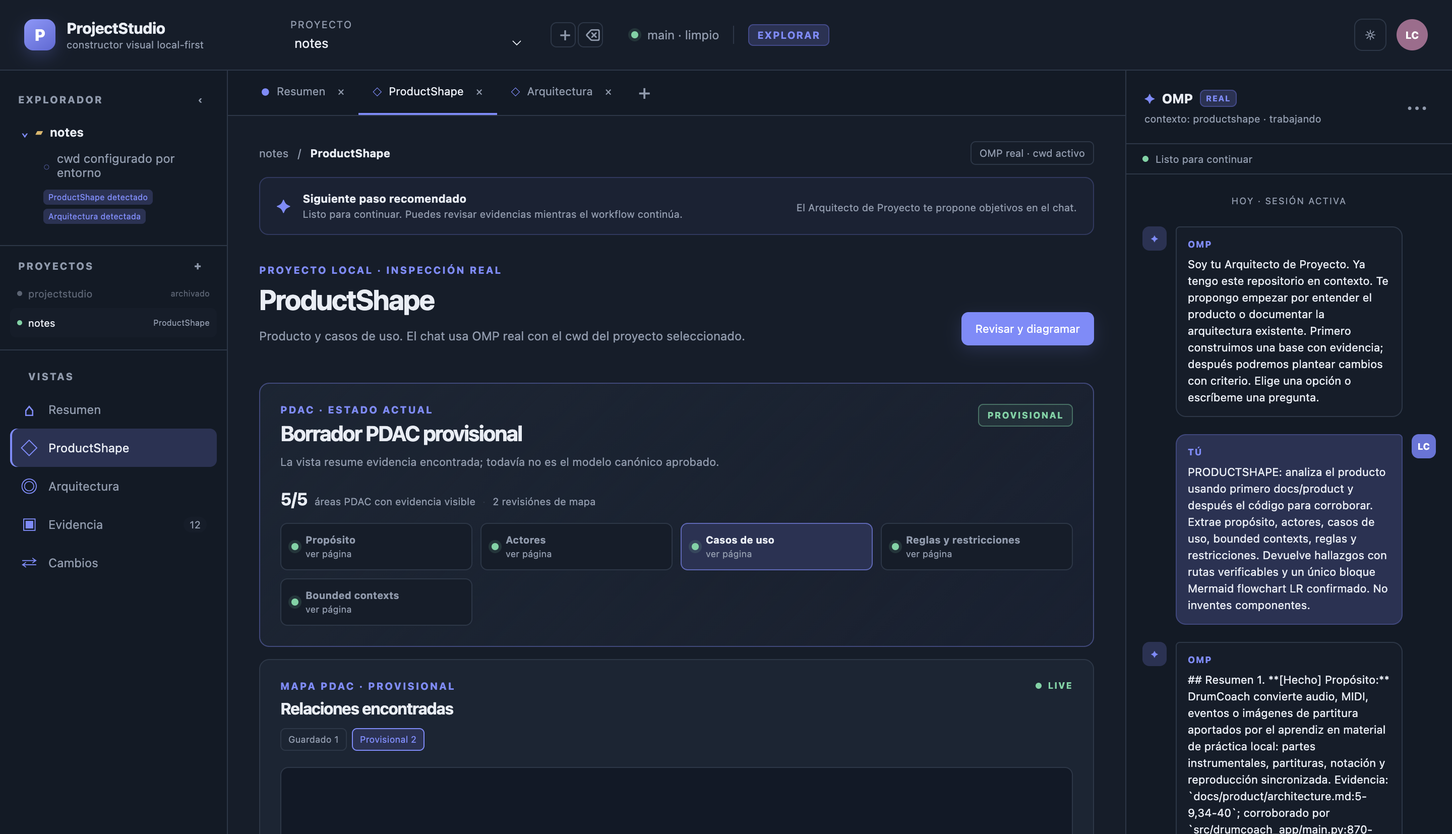
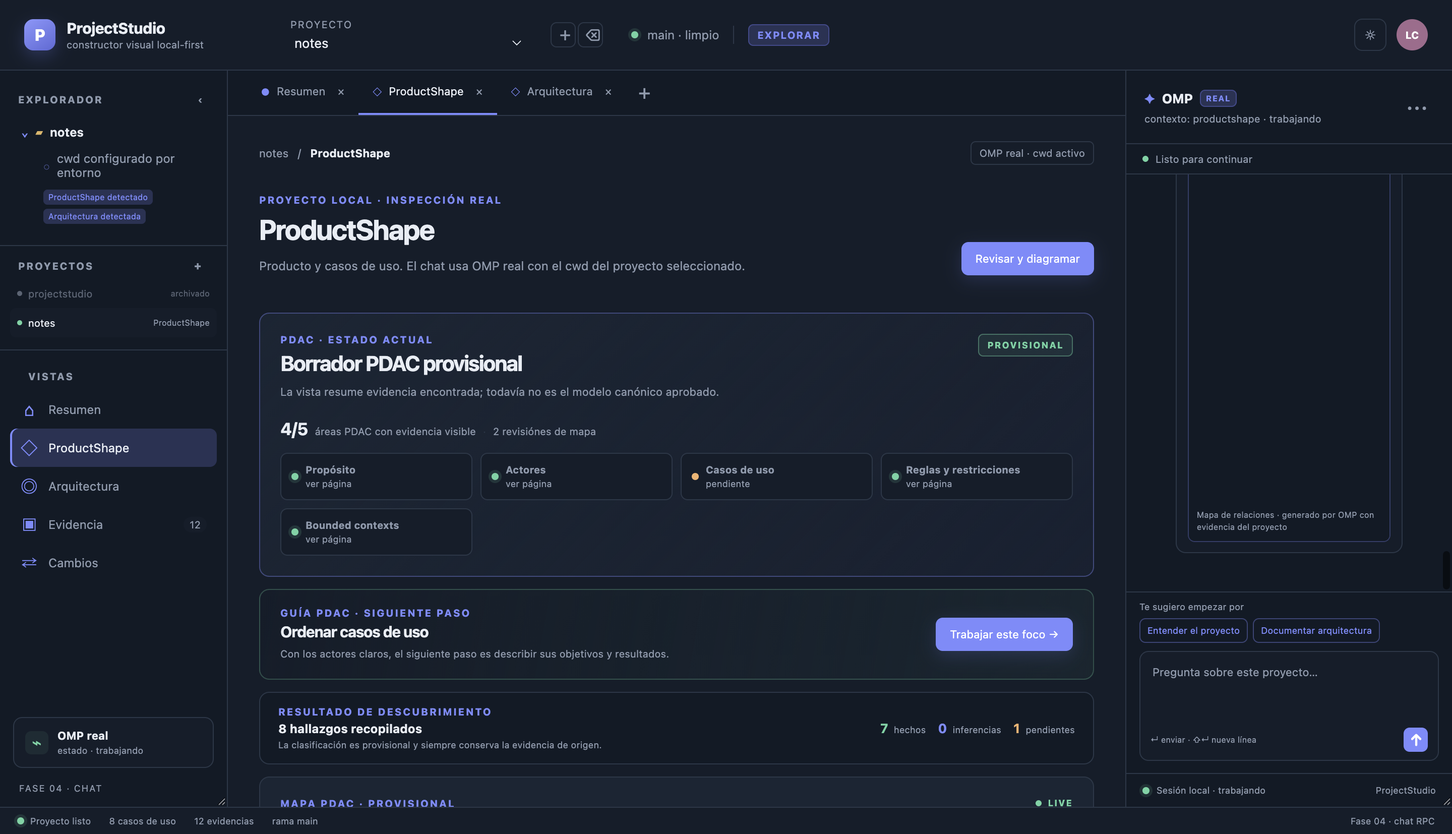
fix: restore ProductShape scrolling

diff --git a/apps/desktop/src/renderer/main.tsx b/apps/desktop/src/renderer/main.tsx
@@ -208,7 +208,6 @@ function App(): JSX.Element {
   const [chatStatus, setChatStatus] = useState("starting");
   const [chatError, setChatError] = useState("");
   const [activity, setActivity] = useState("Preparando el proyecto");
-  const [streamingProgress, setStreamingProgress] = useState<{ title: string; detail: string } | null>(null);
   const [progressSteps, setProgressSteps] = useState<ProgressStep[]>([]);
   const [bootstrapFailed, setBootstrapFailed] = useState(false);
   const streamingDraft = useRef("");
@@ -297,7 +296,6 @@ function App(): JSX.Element {
           streamingDraft.current += delta;
           const progress = extractStreamingProgress(streamingDraft.current);
           if (progress) {
-            setStreamingProgress(progress);
             updateProgress(progress.title, progress.detail);
           } else {
             updateProgress("Recibiendo hallazgos de OMP", "Cada hallazgo confirmado actualiza el centro y el mapa provisional.");
@@ -325,7 +323,6 @@ function App(): JSX.Element {
       } else if (event.type === "message_end") {
         const text = stringField(event.frame, "text") ?? streamingDraft.current;
         streamingDraft.current = "";
-        setStreamingProgress(null);
         if (text) {
           setMessages((current) => [...current, { author: "omp", text }]);
           setAssistantFindings((current) => [...extractAssistantFindings(text), ...current.filter((finding) => !finding.live)].slice(0, 8));
@@ -441,7 +438,6 @@ function App(): JSX.Element {
     setChatInput("");
     setChatError("");
     streamingDraft.current = "";
-    setStreamingProgress(null);
     streamingRevisionId.current = null;
     beginProgress();
     setSending(true);
@@ -628,7 +624,6 @@ function App(): JSX.Element {
                 </article>
                 <article className="panel-card pdac-details-card">
                   <div className="card-heading"><div><div className="card-kicker">DETALLE DINÁMICO</div><h2>{pdacPage === "overview" ? "Lo que va encontrando" : pdacPageLabels[pdacPage]}</h2></div><button className="pdac-clear-focus" onClick={() => openPdacPage("overview")}>Ver estado</button></div>
-                  {sending && <div className="pdac-live-progress" aria-live="polite"><span className="activity-dot purple" /><div><strong>{streamingProgress?.title ?? "OMP está leyendo el proyecto"}</strong><small>{streamingProgress?.detail ?? "El siguiente hallazgo actualizará el mapa provisional del centro."}</small></div><span className="pdac-progress-pulse" /></div>}
                   <div className="pdac-detail-list" aria-live="polite">
                     {visibleFindings.length > 0 ? visibleFindings.slice(0, 8).map((finding, index) => <div className={`pdac-detail-row ${finding.live ? "live" : ""}`} key={finding.id}><span className="pdac-detail-index">{String(index + 1).padStart(2, "0")}</span><div><div className="pdac-detail-title"><span className={`pdac-kind-badge ${finding.kind ?? "fact"}`}>{finding.kind === "inference" ? "INFERENCIA" : finding.kind === "unknown" ? "PENDIENTE" : "HECHO"}</span><strong>{finding.title}</strong>{finding.live && <span className="pdac-new-badge">NUEVO</span>}</div><small>{finding.detail}{finding.evidence ? ` · ${finding.evidence}` : ""}</small></div></div>) : <div className="assistant-empty"><strong>{sending ? "Esperando el siguiente hallazgo…" : "Esta área todavía no tiene evidencia."}</strong><small>{sending ? "OMP la añadirá cuando encuentre una señal verificable." : "El asistente la completará cuando encuentre información verificable en el proyecto."}</small></div>}
                   </div>

diff --git a/apps/desktop/src/renderer/styles.css b/apps/desktop/src/renderer/styles.css
@@ -10,7 +10,7 @@
 body { margin: 0; min-width: 1120px; min-height: 100vh; overflow: hidden; }
 button, select, textarea { font: inherit; }
 button { cursor: pointer; }
-.app-shell { --surface: #141d2a; --surface-strong: #1a2534; --surface-soft: #111a26; --line: #2a3748; --muted: #8e9aae; --text: #e8edf5; --accent: #7c8cff; --accent-soft: #293255; --green: #65d5a2; --orange: #f4b26b; display: flex; flex-direction: column; min-height: 100vh; background: #101722; color: var(--text); }
+.app-shell { --surface: #141d2a; --surface-strong: #1a2534; --surface-soft: #111a26; --line: #2a3748; --muted: #8e9aae; --text: #e8edf5; --accent: #7c8cff; --accent-soft: #293255; --green: #65d5a2; --orange: #f4b26b; display: flex; flex-direction: column; height: 100vh; min-height: 0; overflow: hidden; background: #101722; color: var(--text); }
 .app-shell.light { --surface: #ffffff; --surface-strong: #f5f7fb; --surface-soft: #eef2f8; --line: #d8deea; --muted: #68758a; --text: #172236; --accent: #5c68d8; --accent-soft: #e8eafe; --green: #198d62; --orange: #bd6a16; background: #edf1f7; }
 .topbar { height: 70px; flex: 0 0 70px; display: flex; align-items: center; gap: 28px; padding: 0 24px; background: var(--surface); border-bottom: 1px solid var(--line); }
 .brand-block { display: flex; align-items: center; gap: 11px; min-width: 236px; }
@@ -65,7 +65,7 @@ button { cursor: pointer; }
 .connection-card strong { font-size: 11px; }
 .connection-card small { margin-top: 3px; color: var(--muted); font-size: 9px; }
 .phase-label { padding: 15px 6px 0; color: var(--muted); font-size: 9px; letter-spacing: .1em; }
-.main-panel { display: flex; flex-direction: column; flex: 1; min-width: 520px; background: var(--surface); }
+.main-panel { display: flex; flex-direction: column; flex: 1; min-width: 520px; min-height: 0; background: var(--surface); }
 .tab-strip { display: flex; align-items: end; height: 45px; padding: 0 19px; border-bottom: 1px solid var(--line); background: var(--surface-soft); }
 .view-tab, .add-tab { height: 45px; border: 0; border-bottom: 2px solid transparent; color: var(--muted); background: transparent; font-size: 11px; }
 .view-tab { padding: 0 14px; }
@@ -73,7 +73,7 @@ button { cursor: pointer; }
 .tab-status { margin-right: 7px; color: var(--accent); font-size: 9px; }
 .tab-close { margin-left: 12px; color: var(--muted); }
 .add-tab { padding: 0 12px; font-size: 20px; }
-.content-scroll { overflow: auto; padding: 25px 31px 40px; }
+.content-scroll { flex: 1; min-height: 0; min-width: 0; overflow: auto; padding: 25px 31px 40px; }
 .breadcrumb { display: flex; align-items: center; gap: 9px; color: var(--muted); font-size: 11px; }
 .breadcrumb strong { color: var(--text); }
 .breadcrumb-spacer { flex: 1; }

diff --git a/tests/e2e/notes-diagram.ts b/tests/e2e/notes-diagram.ts
@@ -27,6 +27,9 @@ try {
   if (await window.locator(".pdac-kind-badge").count() === 0) throw new Error("Stored ProductShape findings have no evidence classification");
   if (await window.locator(".welcome-strip").count() !== 0) throw new Error("ProductShape still shows the duplicated upper status");
   if (await window.locator(".pdac-guide-card").count() !== 1) throw new Error("ProductShape guide card is missing");
+  const contentScroll = window.locator(".content-scroll");
+  const scrollMetrics = await contentScroll.evaluate((element) => ({ scrollHeight: element.scrollHeight, clientHeight: element.clientHeight }));
+  if (scrollMetrics.scrollHeight <= scrollMetrics.clientHeight) throw new Error(`ProductShape center is not scrollable: ${JSON.stringify(scrollMetrics)}`);
   await window.getByRole("button", { name: /Casos de uso/ }).click();
   await window.getByRole("heading", { level: 1, name: "Casos de uso" }).waitFor();
   await window.getByText("ENTIDAD PDAC", { exact: true }).waitFor();

diff --git a/tests/e2e/notes-brownfield.ts b/tests/e2e/notes-brownfield.ts
@@ -26,8 +26,8 @@ try {
   await window.getByRole("heading", { name: "ProductShape" }).waitFor();
   const productShapeCount = await window.locator(".message-row.omp").count();
   await window.getByRole("button", { name: "Revisar y diagramar" }).click();
-  await window.locator(".pdac-live-progress").waitFor({ timeout: 30_000 });
   await window.locator(".pdac-progress-panel").waitFor({ timeout: 30_000 });
+  if (await window.locator(".pdac-progress-panel").count() !== 1 || await window.locator(".pdac-live-progress").count() !== 0) throw new Error("ProductShape exposes duplicate central activity status");
   if ((await window.locator(".pdac-progress-step").count()) === 0) throw new Error("ProductShape activity timeline did not publish a step");
   await window.waitForFunction((count) => document.querySelectorAll(".message-row.omp").length > count, productShapeCount, { timeout: 180_000 });
   const productShapeMessage = window.locator(".message-row.omp").last();

diff --git a/docs/implementation/evidence/F05-T02-notes-architecture-real.md b/docs/implementation/evidence/F05-T02-notes-architecture-real.md
@@ -1,54 +1,38 @@
 ✦
 OMP
-## Resumen 1. **[Hecho] Frontera HTTP:** `src/drumcoach_app/main.py` crea FastAPI, configura SQLite y raíces de artefactos/fuentes, sirve viewer, importaciones, biblioteca, scores, playback, assistant, voz y exploración MIDI. Entradas: HTTP y archivos; salidas: JSON, archivos y HTML. Evidencia: `src/drumcoach_app/main.py:20-62,289-323,626-667,870-918,1231-1458`. 2. **[Hecho] Persistencia dividida:** `DrumCoachRepository` mantiene Songs, Instrument Parts, revisiones, bundles, jobs y exploraciones MIDI en SQLite; los artefactos de score y diagnóstico se guardan como archivos con rutas relativas. Evidencia: `src/drumcoach_app/repository.py:178-327,330-337`; contratos: `tests/test_repository.py:10-388`. 3. **[Hecho] Ingesta local secuencial:** los endpoints crean jobs `raw_events`, `local_audio`, `youtube_url` o `score_image`; `local_worker_cli.py`/`queue_drain_cli.py` los drenan y `import_runner.py` delega en MuScriptor, adquisición YouTube o OMR. Evidencia: `src/drumcoach_app/local_worker_cli.py:14-55`, `queue_drain_cli.py:21-123`, `import_runner.py:82-424`. 4. **[Hecho] Pipeline de material:** los eventos se normalizan y convierten en `PracticeScore` —schema 1 para batería, schema 2 para partes afinadas—; después se publican MusicXML, playback, provenance, diagnósticos y `note-trace`. La ruta de imagen convierte MusicXML OMR en eventos de piano. Evidencia: `src/drumcoach_spike/practice_score.py:99-250`, `src/drumcoach_app/import_runner.py:426-594`, `src/drumcoach_spike/transcription_pipeline.py:133-364`, `src/drumcoach_spike/omr.py:24-191`. 5. **[Hecho] Práctica y assistant:** `PlayerController` resuelve una parte activa mediante `DrumCoachRepository`, `TimelineEngine` y el score; `generated_playback.py` deriva notas, límites de compás y timeline para el viewer. El assistant usa herramientas validadas, análisis determinista del teacher y sesiones JSON locales. Evidencia: `src/drumcoach_app/player.py:202-247,316-564`, `src/drumcoach_app/timeline.py:64-190`, `src/drumcoach_app/generated_playback.py:47-243`, `src/drumcoach_app/assistant/orchestrator.py:218-498`, `src/drumcoach_app/assistant/session.py:14-158`. ## Decisiones observadas - **Fuente de verdad:** `practice-score.json`; MusicXML, MIDI, playback, engraving y diagnósticos son proyecciones o sidecars. `src/drumcoach_app/main.py:1335-1357` vuelve a generar MusicXML desde el score cuando procede. - **Cadena de importación confirmada:** job → runner → score canónico → archivos de artefactos → Song/Instrument Part/Revision en SQLite. Los contratos están cubiertos por `tests/test_import_runner.py:19-148` y `tests/test_instruments_phase_one.py:18-106`. - **Rama separada:** `/midi-import` llama directamente a MuScriptor y persiste `midi_explorations` y `DrumScore`; no pasa por una revisión `PracticeScore`. Evidencia: `src/drumcoach_app/main.py:505-552`, `src/drumcoach_app/repository.py:197-203`; pruebas: `tests/test_app.py:139-213`. - **Estado de práctica:** el score y las revisiones viven en SQLite/artefactos; la sesión de player y assistant se guarda en `.local/assistant/sessions/*.json`. Evidencia: `src/drumcoach_app/assistant/session.py:34-59,127-158`. ## Riesgos - **[Hecho] Dependencia de entorno:** la tanda arquitectónica independiente pasó: `40 passed` en `tests/test_repository.py`, `test_import_runner.py` y `test_generated_playback.py`. La tanda ampliada no llegó a recolectar `test_score_image_import.py` ni `test_instruments_phase_one.py` porque `main.py` importa `muscriptor.soundfonts`, que encadena a `torch`, ausente en ese entorno. Evidencia de importación: `src/drumcoach_app/main.py:44-45`. - **[Inferencia]** Si FastAPI debe arrancar sin MuScriptor/torch, la importación superior de `main.py` es una frontera frágil; la opción segura sería cargar esas dependencias sólo en las rutas que las usan. - **[Incógnita]** No queda demostrado en este entorno que el conjunto completo de endpoints HTTP pueda ejecutarse hasta el worker real; sí están cubiertos los contratos de repository, runners, score, playback y teacher mediante pruebas aisladas. ## Próximos pasos 1. Confirmar si el arranque de FastAPI debe funcionar sin `torch`/MuScriptor. Opción segura: mantener el core HTTP y biblioteca arrancables, y diferir la carga del runtime de transcripción. 2. Ejecutar la suite ampliada con el entorno declarado por el proyecto y verificar `/health`, creación de job, drenaje de un job y lectura de una revisión activa. 3. Mantener separadas en la documentación técnica las dos rutas reales: importación canónica a `PracticeScore` y exploración directa MIDI. ```mermaid flowchart LR Browser["Browser / viewer"] -->|HTTP| API["main.py<br/>FastAPI"] Source["Audio local / raw JSONL / YouTube URL / score image"] --> API API --> Repo["repository.py<br/>DrumCoachRepository"] Repo --> SQLite[("SQLite<br/>songs, parts, revisions, jobs, bundles")] API --> Jobs["Import jobs"] Jobs --> Repo Worker["local_worker_cli.py<br/>queue_drain_cli.py"] --> Jobs Worker --> Runner["import_runner.py"] Runner --> Adapter["transcription_adapter.py<br/>MuScriptor"] Runner --> OMR["omr.py<br/>OMR opcional"] Runner --> Acquisition["source_acquisition.py"] Runner --> Score["practice_score.py<br/>PracticeScore canónico"] Runner --> Artifacts[("artifact_root<br/>JSON, JSONL, MusicXML, diagnósticos")] Runner --> Engraver["musescore_engraver.py<br/>engraving opcional"] Score --> MusicXML["musicxml.py"] Score --> Playback["generated_playback.py"] API --> Player["player.py<br/>PlayerController"] Repo --> Player Player --> Timeline["timeline.py<br/>TimelineEngine"] Player --> Score Player --> Playback Playback --> Browser MusicXML --> Browser API --> Assistant["assistant/orchestrator.py"] Assistant --> Provider["Local LFM provider"] Assistant --> Tools["assistant/tools.py"] Tools --> Teacher["teacher/analyse.py<br/>análisis determinista"] Teacher --> Score Teacher --> Player Assistant --> Sessions[(".local/assistant/sessions/*.json")] Assistant --> Browser API --> MIDI["/midi-import"] MIDI --> Adapter MIDI --> MIDIStore[("midi_explorations<br/>+ DrumScore files")] MIDIStore --> Browser ```
-Browser / viewer
-Browser
-Audio local / raw JSONL /YouTube URL / score image
-Source
-local_worker_cli.py<br/>queue_drain_cli.py
-Worker
-main.py<br/>FastAPI
-API
-import_runner.py
-Runner
-repository.py<br/>DrumCoachRepository
-Repo
-Import jobs
-Jobs
-transcription_adapter.py<br/>MuScriptor
-Adapter
-omr.py<br/>OMR opcional
-OMR
-source_acquisition.py
-Acquisition
-practice_score.py<br/>PracticeScorecanónico
-Score
-("artifact_root<br/>JSON,JSONL, MusicXML,diagnósticos")
-Artifacts
-musescore_engraver.py<br/>engravingopcional
-Engraver
-assistant/orchestrator.py
-Assistant
-/midi-import
+## Hallazgos verificables 1. **Aplicación y API local.** `src/drumcoach_app/main.py` construye FastAPI, configura SQLite, `artifact_root` e `imported_source_root`, y expone salud, imports, biblioteca, partes, artefactos, reproductor, assistant y exploración MIDI. Entradas: JSON, uploads, URLs y parámetros HTTP. Salidas: `dict`, `Response` y `FileResponse`. Evidencia: `src/drumcoach_app/main.py:290-323,505-506,626-718,870-1010,1231-1501`; `tests/test_app.py:18-113`. 2. **Persistencia y estado de imports.** `repository.py` mantiene en SQLite `songs`, `instrument_parts`, `practice_score_revisions`, `import_bundles`, `import_jobs` y `midi_explorations`. La base guarda identidad, estados y rutas relativas; los contenidos de score y diagnósticos permanecen en archivos. Los bundles crean un `Song` y jobs hijos por instrumento. Evidencia: `src/drumcoach_app/repository.py:180-255,330-431,627-735,801-1017`; `tests/test_repository.py:10-37`; `tests/test_instruments_phase_one.py:18-45`. 3. **Worker e ingestión.** `local_worker_cli.py` ejecuta ciclos secuenciales para `raw_events`, `youtube_url`, `local_audio` y `score_image`; `queue_drain_cli.py` selecciona el runner correspondiente. `import_runner.py` conecta adquisición, `MuScriptorTranscriptionAdapter`, OMR y publicación. Entradas: eventos JSONL, audio local, URL o imagen. Salida persistida: `Song`, `InstrumentPart`, revisión y estado final del job. Evidencia: `src/drumcoach_app/local_worker_cli.py:14-55`; `src/drumcoach_app/queue_drain_cli.py:9-123`; `src/drumcoach_app/import_runner.py:192-284,319-399,426-594`; `tests/test_import_runner.py:19-115`; `tests/test_score_image_import.py:66-117,174-191`. 4. **Pipeline canónico de notas y artefactos.** `src/drumcoach_spike/practice_score.py` convierte eventos preservados en un score por instrumento: batería en schema 1 y partes tonales en schema 2; los eventos incompatibles quedan en `unsupported_events`. `transcription_pipeline.py` y `_complete_import_job` publican eventos crudos/normalizados, `practice-score.json`, MusicXML, provenance, diagnósticos, note trace y playback derivado. Evidencia: `src/drumcoach_spike/practice_score.py:99-185,187-250`; `src/drumcoach_spike/transcription_pipeline.py:87-125,290-364`; `src/drumcoach_app/import_runner.py:442-529`; `tests/test_instruments_phase_one.py:108-187`. 5. **Práctica, playback y coaching.** `PlayerController` resuelve una revisión activa desde repository y archivos, mantiene `PlayerSession` en el `state_store` inyectado y controla instrumento, rango, tempo, loop y transporte. `generated_playback.py` deriva payloads score-time desde el JSON canónico y sidecars. `teacher/analyse.py` analiza el rango seleccionado; `assistant/tools.py` prepara acciones pendientes y sólo reproduce tras confirmación. Evidencia: `src/drumcoach_app/player.py:316-427,447-498`; `src/drumcoach_app/generated_playback.py:47-78,123-242`; `src/drumcoach_app/teacher/analyse.py:32-95`; `src/drumcoach_app/assistant/tools.py:1255-1508`; `tests/test_player.py:45-126`; `tests/test_teacher_tools.py:154-228`. ## Decisiones - La fuente de verdad arquitectónica es `practice-score.json`; SQLite referencia revisiones y archivos, pero no sustituye el score. - El worker no implementa una cola distribuida: reclama jobs SQLite y ejecuta runners locales secuenciales. - El reproductor no persiste su sesión en las tablas de dominio; usa el `state_store` recibido por `PlayerController`. - La verificación ejecutada cubrió los contratos principales: **227 tests pasaron**, con una advertencia deprecada de `httpx`/`TestClient`. ## Riesgos - Hay varias proyecciones de MusicXML: conversor interno, MuseScore opcional y ruta legacy de batería. `import_runner.py:534-548,680-798` registra fallback, engraving y validación semántica; una documentación futura debe distinguirlos. - FastAPI puede iniciar su worker embebido y también existe `local_worker_cli.py`; el reclamo atómico `queued → running` evita doble ejecución, pero la operación debe elegir un modo principal. - Assistant, teacher, voice, OMR y MuseScore tienen dependencias y límites de disponibilidad que no pertenecen al núcleo SQLite/score. - La exploración MIDI usa tablas y endpoints propios y no equivale al flujo de `ImportJob`; mezclar ambos caminos produciría una arquitectura falsa. ## Próximos pasos 1. Documentar esta vista como arquitectura actual, separando explícitamente **persistencia de dominio**, **archivos de artefactos** y **estado efímero del reproductor**. 2. Decisión única pendiente: **¿assistant/teacher/voice y engraving deben documentarse como núcleo o como capacidades opcionales?** Opción segura: mantener como núcleo `FastAPI + jobs locales + Practice Score + biblioteca + playback`; marcar el resto como extensiones. 3. Si se requiere endurecimiento operativo, probar por separado el worker embebido y el CLI local con jobs concurrentes y verificar la transición SQLite. ```mermaid flowchart LR HTTP["HTTP, uploads y URLs"] APP["FastAPI<br/>src/drumcoach_app/main.py"] VIEW["Viewer estático y endpoints JSON"] DB["SQLite<br/>src/drumcoach_app/repository.py"] JOB["ImportJob / ImportBundle"] WORKER["Worker local<br/>local_worker_cli.py / queue_drain_cli.py"] RUNNER["Runners<br/>src/drumcoach_app/import_runner.py"] ADAPTER["TranscriptionAdapter<br/>MuScriptor"] OMR["OMR opcional<br/>src/drumcoach_spike/omr.py"] SPIKE["Practice Score pipeline<br/>practice_score.py / transcription_pipeline.py"] ART["Artifact root<br/>JSON, MusicXML, diagnostics y trace"] MS["MuseScore 4 opcional<br/>musescore_engraver.py"] MIDI["Exploración MIDI"] PLAYER["PlayerController<br/>player.py"] PLAYBACK["Generated playback<br/>generated_playback.py"] TEACHER["Teacher y assistant tools"] STATE["state_store<br/>PlayerSession"] HTTP --> APP APP --> VIEW VIEW --> APP APP --> DB APP --> JOB APP --> MIDI APP -. worker embebido opcional .-> WORKER WORKER --> JOB JOB --> RUNNER RUNNER -->|audio / URL| ADAPTER RUNNER -->|score image| OMR ADAPTER --> SPIKE OMR --> RUNNER RUNNER --> SPIKE SPIKE --> ART RUNNER --> ART RUNNER --> DB RUNNER -. engraving standalone .-> MS MS --> ART MIDI --> DB MIDI --> ART DB --> PLAYER ART --> PLAYER PLAYER --> STATE APP --> PLAYER APP --> PLAYBACK PLAYBACK --> VIEW APP --> TEACHER TEACHER --> PLAYER TEACHER --> DB TEACHER --> ART
+HTTP, uploads y URLs
+HTTP
+Workerlocal<br/>local_worker_cli.py/ queue_drain_cli.py
+WORKER
+MuseScore 4opcional<br/>musescore_engraver.py
+MS
+FastAPI<br/>src/drumcoach_app/main.py
+APP
+Viewer estático yendpoints JSON
+VIEW
+SQLite<br/>src/drumcoach_app/repository.py
+DB
+ImportJob / ImportBundle
+JOB
+Exploración MIDI
 MIDI
-("SQLite<br/>songs,parts, revisions, jobs,bundles")
-SQLite
-musicxml.py
-MusicXML
-generated_playback.py
-Playback
-player.py<br/>PlayerController
-Player
-Local LFM provider
-Provider
-assistant/tools.py
-Tools
-(".local/assistant/sessions/*.json")
-Sessions
-("midi_explorations<br/>+DrumScore files")
-MIDIStore
-timeline.py<br/>TimelineEngine
-Timeline
-teacher/analyse.py<br/>análisisdeterminista
-Teacher
+Generatedplayback<br/>generated_playback.py
+PLAYBACK
+Teacher y assistant tools
+TEACHER
+Runners<br/>src/drumcoach_app/import_runner.py
+RUNNER
+TranscriptionAdapter<br/>MuScriptor
+ADAPTER
+OMRopcional<br/>src/drumcoach_spike/omr.py
+OMR
+Practice Scorepipeline<br/>practice_score.py/
+SPIKE
+Artifact root<br/>JSON,MusicXML, diagnostics ytrace
+ART
+PlayerController<br/>player.py
+PLAYER
+state_store<br/>PlayerSession
+STATE
 Mapa de relaciones · generado por OMP con evidencia del proyecto

diff --git a/docs/implementation/evidence/F05-T01-notes-productshape-real.md b/docs/implementation/evidence/F05-T01-notes-productshape-real.md
@@ -1,30 +1,40 @@
 ✦
 OMP
-## Resumen 1. **[Hecho] Propósito:** DrumCoach convierte audio, MIDI, eventos o imágenes de partitura aportados por el aprendiz en material de práctica local: partes instrumentales, partituras, notación y reproducción sincronizada. Evidencia: `docs/product/architecture.md:5-9,34-40`; corroborado por `src/drumcoach_app/main.py:870-1011` y `src/drumcoach_app/import_runner.py:426-594`. 2. **[Hecho] Actores:** aprendiz, operador local, motor MuScriptor y runtime OMR opcional. Evidencia: `docs/product/model/actors/act-learner.md`, `act-local-operator.md`, `act-muscriptor.md`, `act-omr-runtime.md`. 3. **[Hecho] Casos de uso:** importar fuentes, importar imágenes de partitura, ejecutar el worker local, explorar la biblioteca, practicar una revisión y pedir coaching contextual. Evidencia: `docs/product/model/use-cases/`. 4. **[Hecho] Bounded contexts:** Practice Material, Instrument-Specific Ingestion, Interactive Notation Player y Contextual Practice Coaching. Evidencia: `docs/product/model/domain/bounded-contexts/`; corroborado por `repository.py`, `import_runner.py`, `player.py` y `teacher/analyse.py`. 5. **[Hecho] Reglas centrales:** Practice Score JSON es canónico; MusicXML, MIDI, diagnóstico y engraving son derivados; los jobs son locales y específicos por instrumento; el coaching analiza determinísticamente y exige confirmación antes de reproducir. Evidencia: `docs/product/model/business-rules/`; corroborado por `practice_score.py:99-250`, `repository.py:213-256` y `assistant/tools.py:1423-1508`. ## Decisiones observadas - **[Hecho] Local-first:** una aplicación FastAPI, un worker local, SQLite y archivos configurables; no hay catálogo alojado, autenticación ni cola distribuida. Evidencia: `docs/product/model/business-rules/br-local-first.md`, `con-local-sqlite.md`, `src/drumcoach_app/repository.py:178-327`. - **[Hecho] Ingesta por instrumento:** los perfiles por defecto son batería, piano acústico y guitarra acústica; una importación puede crear jobs hijos por parte. Evidencia: `src/drumcoach_app/main.py:99-112`, `src/drumcoach_spike/transcription_adapter.py:18-36`, `src/drumcoach_app/repository.py:225-256`. - **[Hecho] Persistencia reproducible:** cada job exitoso publica eventos raw, eventos normalizados, score canónico, MusicXML, resumen, provenance, diagnósticos, playback y `note-trace.json`, y después registra Song, Instrument Part y revisión. Evidencia: `src/drumcoach_app/import_runner.py:461-529,553-594`. - **[Hecho] Player único:** las vistas del reproductor y el asistente convergen en `PlayerController`; el estado de selección, tempo, loop, fuente y transporte se conserva como una única sesión. Evidencia: `src/drumcoach_app/player.py:316-410,412-564`; endpoints `/assistant/player-session` y `/assistant/player-command` en `src/drumcoach_app/main.py:669-779`. - **[Hecho] Coaching con límite humano:** el análisis usa score y selección autorizados; el modelo recibe payloads acotados y no calcula hechos musicales. La reproducción se propone, queda pendiente y sólo se ejecuta tras confirmar canción y rango. Evidencia: `src/drumcoach_app/teacher/analyse.py:39-95`, `src/drumcoach_app/assistant/tools.py:911-1011,1423-1508`. - **Vista confirmada:** ```mermaid flowchart LR L["Aprendiz"] --> V["Viewer y superficie de práctica local"] O["Operador local"] --> API["FastAPI + worker local"] V --> API L --> SRC["Audio / eventos / URL / imagen"] SRC --> API API --> ING["Ingesta específica por instrumento"] MS["MuScriptor"] --> ING OMR["OMR opcional"] --> ING ING --> MAT["Practice Material"] MAT --> DB[("SQLite local")] MAT --> ART[("Archivos y artefactos locales")] MAT --> PLAYER["Interactive Notation Player"] PLAYER --> L MAT --> COACH["Contextual Practice Coaching"] L --> COACH COACH -->|"guía y acción pendiente"| L L -->|"confirmación"| COACH COACH -->|"acción validada"| PLAYER ``` ## Riesgos - **[Incógnita de producto]** Coaching contextual, voz, benchmarks, multiinstrumento y engraving aparecen como capacidades experimentales u opt-in, no como compromisos de producto inequívocos. Evidencia: `docs/product/architecture.md:7-10,57-67`. - **[Riesgo de trazabilidad]** La documentación mantiene la limitación histórica de “no soporte no-4/4” en `docs/product/architecture.md:101-108`, mientras el código actual acepta `time_signature` y calcula compases con `ticks_per_bar`: `src/drumcoach_spike/practice_score.py:99-147`. Debe decidirse si es una limitación vigente o una nota histórica. - **[Riesgo operativo]** OMR, MuScriptor, FFmpeg, fuentes de audio y otros runtimes dependen de instalación local; la ausencia debe producir fallos durables visibles, no bloqueos silenciosos. Evidencia: `docs/product/model/requirements/constraints/`, `src/drumcoach_app/main.py:920-968`. - **[Riesgo documental]** `graphify-out/GRAPH_REPORT.md:13-16` fue generado sobre el commit `e7a7fe89`; el repositorio actual está en otro commit (`a5cb123b...`). El grafo sirve como navegación histórica, no como evidencia actual hasta regenerarlo. - **[Frontera especial]** `/midi-import` explora MIDI directamente y no crea una revisión canónica; está explícitamente separado del flujo de Practice Score. Evidencia: `src/drumcoach_app/main.py:505-507` y `src/drumcoach_spike/transcription_adapter.py:200-205`. ## Próximos pasos 1. **Decisión de producto:** ¿las capacidades experimental/opt-in deben permanecer fuera del compromiso principal? Opción segura: mantener coaching, voz, benchmarks, multiinstrumento y MuseScore como opt-in hasta definir criterios de aceptación. 2. Alinear `docs/product/architecture.md` con el soporte real de firmas de compás y con el estado actual de piano, guitarra, teacher y engraving. 3. Ejecutar `prodshape validate` y regenerar el grafo antes de usarlo para nuevas decisiones de arquitectura.
+## Resumen de hallazgos 1. **Propósito y frontera — Hecho:** DrumCoach es una herramienta personal, local-first, que convierte material musical permitido en `Practice Score`, notación legible y práctica sincronizada. No es catálogo público, SaaS ni servicio alojado. Evidencia: `docs/product/architecture.md:5-9,34-40`; `README.md:1-3,43-49`. 2. **Actores y casos de uso — Hecho:** actores principales: aprendiz, operador local, MuScriptor y runtime OMR opcional. Casos: importar fuente, ejecutar worker local, explorar biblioteca, abrir/practicar una revisión y pedir guía contextual. El código confirma las rutas `/imports`, `/songs`, `/instrument-parts/...` y `/assistant/turn` en `src/drumcoach_app/main.py:626-718,970-1010,1231-1469`. 3. **Bounded contexts — Hecho:** `Instrument-Specific Ingestion`, `Practice Material`, `Interactive Notation Player` y `Contextual Practice Coaching`. Evidencia: `docs/product/model/domain/bounded-contexts/bc-*.md`; entidades persistidas `Song`, `InstrumentPart`, `PracticeScoreRevision`, `ImportBundle` e `ImportJob` en `src/drumcoach_app/repository.py:11-87,188-255`. 4. **Reglas estructurales — Hecho:** `Practice Score JSON` es la fuente canónica; MusicXML, MIDI, playback, diagnósticos y engraving son derivados. Los imports se restringen por instrumento y los bundles crean jobs hijos independientes. El coaching usa análisis determinista, rephrasing acotado y confirmación explícita antes de reproducir. Evidencia: `docs/product/model/business-rules/br-*.md`; `src/drumcoach_spike/practice_score.py:99-115`; `src/drumcoach_app/assistant/tools.py:1423-1508`. 5. **Restricciones e incógnitas — Hecho:** ejecución local sobre macOS, SQLite y archivos; OMR acepta PNG/JPEG/WebP y falla de forma durable si falta; el worker es secuencial y recupera jobs interrumpidos. **Inferencia:** importación, biblioteca y reproductor forman el núcleo; coaching, voz, OMR y engraving son capacidades opcionales o experimentales. **Incógnita:** el repositorio aún no fija si esas capacidades deben considerarse compromiso de producto. Evidencia: `docs/product/architecture.md:44-67,101-108`; `src/drumcoach_app/local_worker_cli.py:14-55`; `src/drumcoach_spike/omr.py:51-138`. ## Decisiones - **Vista de producto confirmada:** los nodos siguientes sólo corresponden a componentes, actores y límites evidenciados en `docs/product` y el código. ```mermaid flowchart LR L["Aprendiz"] O["Operador local"] S["Fuente: audio, raw events, URL o imagen"] M["MIDI: exploración directa"] X["Exploración MIDI no canónica"] A["Aplicación local FastAPI"] J["Import Job / Import Bundle"] W["Worker local secuencial"] T["Transcription Adapter / MuScriptor"] OMR["OMR opcional"] P["Pipeline de Practice Score"] C["Practice Score JSON canónico"] D["Artefactos derivados y provenance"] DB["SQLite: Song, Parts, Revisions y Jobs"] LIB["Biblioteca local"] PLAYER["Interactive Notation Player"] COACH["Análisis determinista / Practice Teacher"] GUIDE["Guía y acción pendiente"] O -->|configura y lanza| A L -->|aporta o selecciona| S S --> A L -->|explora| M M --> X A -->|valida y encola| J W -->|drena| J J -->|audio o URL| T J -->|raw events| P J -->|imagen PNG/JPEG/WebP| OMR T --> P OMR --> P P --> C P --> D J --> DB C --> DB DB --> LIB D --> LIB LIB --> PLAYER C --> COACH COACH --> GUIDE GUIDE -->|acción pendiente| L L -->|confirma| PLAYER ``` - El camino canónico confirmado es: **fuente → job local → score canónico → revisión persistida → biblioteca → reproductor**. - MIDI queda separado como exploración no canónica; el endpoint correspondiente está documentado como independiente en `src/drumcoach_app/main.py:505-570` y `docs/product/model/business-rules/br-instrument-specific-jobs.md:14-24`. - La evidencia ejecutada cubre los contratos principales: **62 pruebas pasaron** en imports, OMR, bundles, player y teacher; quedó una advertencia deprecada de `httpx` en `TestClient`. ## Riesgos - **Deriva de alcance:** `docs/product/recovery-brief.yaml:79-87` reconoce contradicciones entre el núcleo local-first y capacidades nuevas. Presentar coaching, voz o multiinstrumento como núcleo sin decisión explícita puede inflar compromiso y presupuesto. - **Dependencias locales:** MuScriptor y OMR pueden faltar, tardar o producir resultados de baja calidad; el diseño conserva fallos visibles, pero la operación, modelos, permisos y archivos siguen bajo responsabilidad local. - **Confusión de fuentes de verdad:** tratar MusicXML, MIDI o engraving como canónicos rompería la regenerabilidad definida en `br-score-json-canonical.md` y `br-derived-artifacts.md`. - **Validación ProductShape pendiente:** `prodshape validate` no pudo ejecutarse porque el comando no está disponible en el entorno (`command not found`). ## Próximos pasos 1. Resolver una única decisión de alcance: **¿coaching, voz, OMR y engraving son producto comprometido o capacidades experimentales?** Opción segura: mantener como núcleo importación, score canónico, biblioteca y reproducción; etiquetar el resto como opcional. 2. Instalar o invocar la CLI de ProductShape y ejecutar `prodshape validate`. 3. Convertir la decisión de alcance en una actualización revisada de `docs/product/model/` mediante el flujo de cambios existente; no modificar el código hasta cerrar esa decisión.
 Aprendiz
 L
 Operador local
 O
-MuScriptor
-MS
+Worker local secuencial
+W
+Fuente: audio, rawevents, URL o imagen
+S
+MIDI: exploración directa
+M
+Exploración MIDI nocanónica
+X
+Aplicación local FastAPI
+A
+Import Job / ImportBundle
+J
+Transcription Adapter /MuScriptor
+T
 OMR opcional
 OMR
-Viewer y superficie depráctica local
-V
-Audio / eventos / URL /imagen
-SRC
-FastAPI + worker local
-API
-Ingesta específica porinstrumento
-ING
-Practice Material
-MAT
-("SQLite local")
+Pipeline de PracticeScore
+P
+Practice Score JSONcanónico
+C
+Artefactos derivados yprovenance
+D
+SQLite: Song, Parts,Revisions y Jobs
 DB
-("Archivos y artefactoslocales")
-ART
+Biblioteca local
+LIB
 Interactive NotationPlayer
 PLAYER
-Contextual PracticeCoaching
+Análisis determinista /Practice Teacher
 COACH
+Guía y acción pendiente
+GUIDE
 Mapa de relaciones · generado por OMP con evidencia del proyecto

diff --git a/docs/implementation/JOURNEY-BROWNFIELD.md b/docs/implementation/JOURNEY-BROWNFIELD.md
@@ -35,7 +35,7 @@ El usuario no opera el CLI ni debe leer el repositorio entero. Su recorrido es:
 2. Deja que el asistente arranque el descubrimiento o pulsa **Revisar y diagramar** si quiere repetirlo.
 3. Lee **Lo que va encontrando**: propósito, actores, casos de uso, restricciones y rutas de evidencia. Cada tarjeta es un resumen de una salida real de OMP, no una actividad decorativa.
 4. Mientras OMP trabaja, el centro muestra una línea compacta de actividad: qué fase está ejecutando, qué herramienta segura está usando y cuándo llega un resultado. No expone prompts, argumentos ni razonamiento interno.
-5. Cuando el stream identifica una sección de casos de uso o una relación, la interfaz añade el hallazgo al detalle y actualiza un mapa incremental de evidencia; cuando llega Mermaid confirmado, sustituye ese índice por las relaciones reales.
+5. El contenido central se desplaza dentro de la ventana: el usuario puede llegar a la guía de confirmación, al resumen, al detalle y al mapa sin perder el contexto del proyecto.
 6. Usa **Guía PDAC · siguiente paso** para saber qué área falta documentar. El botón de foco lanza una consulta específica sin obligar al usuario a escribir el prompt técnico.
 7. Pulsa **Casos de uso**, **Actores**, **Reglas y restricciones** o **Bounded contexts** para abrir la página de esa entidad desde el estado PDAC.
 8. Pregunta sobre un hallazgo o abre la evidencia. No se promueve nada al ProductShape canónico sin revisión posterior.

diff --git a/docs/implementation/STATUS.md b/docs/implementation/STATUS.md
@@ -132,6 +132,7 @@ OMP_BIN=/ruta/a/omp pnpm desktop
 | F05-T22 | done | durante el streaming el centro muestra actividad segura del OMP, hallazgos parciales y mapa incremental de evidencia antes del Mermaid final |
 | F05-T23 | done | guía PDAC calcula el siguiente foco pendiente, alinea el contador con los hallazgos filtrables y elimina el status superior duplicado de ProductShape |
 | F05-T24 | done | resultado de descubrimiento resume hechos, inferencias y pendientes; cada hallazgo conserva su ruta de evidencia y etiqueta visible |
+| F05-T25 | done | ProductShape usa un único timeline de actividad central y el shell fija `100vh` con `.content-scroll` flexible y desplazable para alcanzar confirmación, resultados y diagramas |
 ### Verificación F05
 
 ```bash
